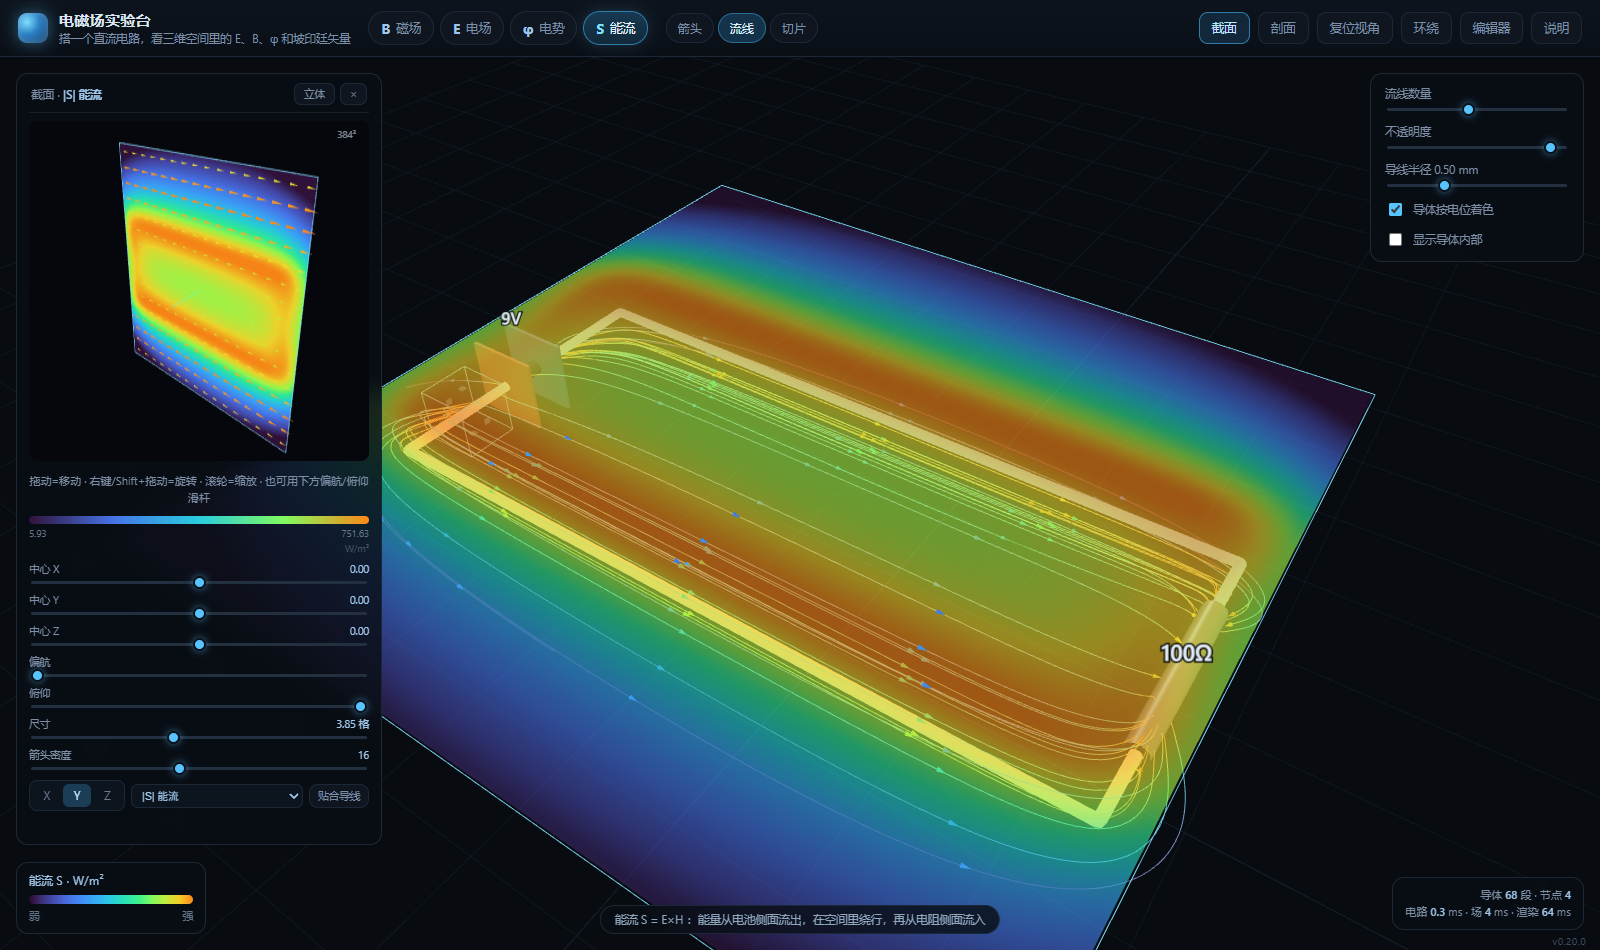
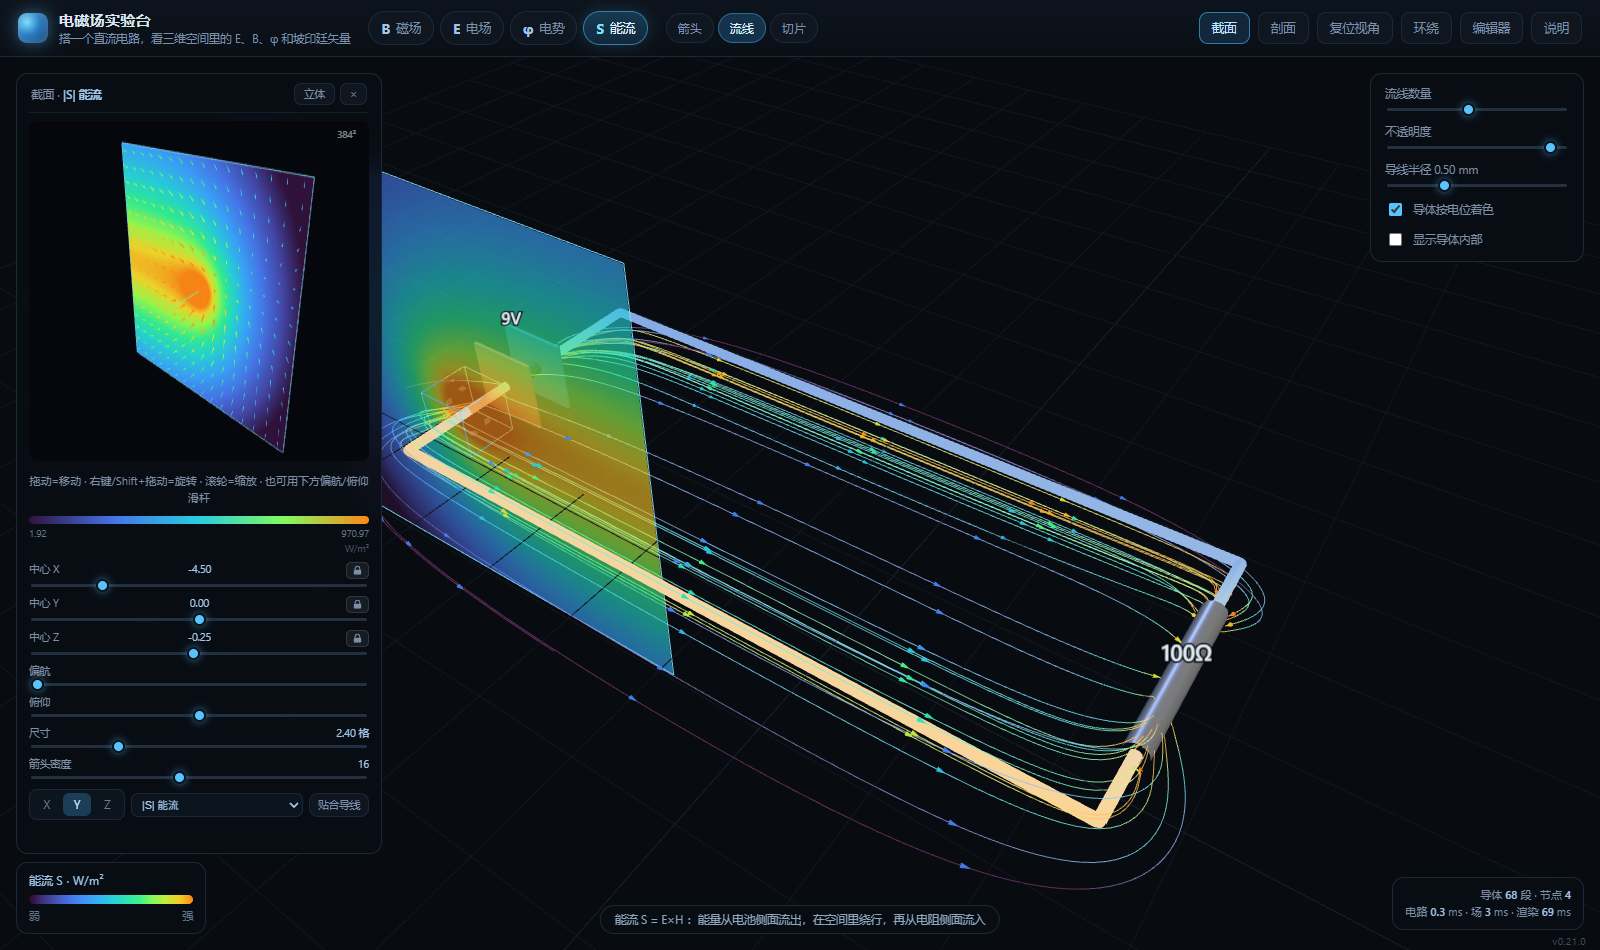
fix: 截取空间尺寸为 0 会卡死；锁不生效（框照旧被拖走）；截面也默认吸附导线并加 XYZ 锁；锁改图标；根目录过程截图进 .gitignore（v0.21.0）
- viz: buildArrows/buildStreams 在任一方向 span≈0 时直接返回——
  体积为 0 会让网格步长算成 ∞，循环无限跑（页面卡死）
- slicepane.setBox: 尺寸统一钳到 >= 0.004（原来只有 setWorldBox 钳）
- app: gizmo onChange 里把框 setBox 回弹到锁定后的体块，否则框照样被拖走，
  看着就是「锁没生效」
- slice: 首次进入 attachToWire()（和截取空间一致）；中心 X/Y/Z 各加锁，
  滑杆和三维拖动都尊重锁定
- index/css: 锁改成小挂锁 SVG 图标（锁定态变绿）
- .gitignore: 根目录的 /*.png 过程截图不再入库（docs/ 里的正式截图仍跟踪）
- test: 新增 4 项，共 59 项
- 版本 0.21.0，文档与截图更新

diff --git a/index.html b/index.html
@@ -91,9 +91,9 @@
       </div>
       <div id="sp-container"></div>
       <div class="sp-ctl">
-        <label class="locked-wrap"><span>中心 X<button type="button" class="lockbtn" id="sp-lock-x" title="锁定后拖动截取框不会改变 X">锁</button></span><input type="range" id="sp-cx" min="-150" max="150" value="0"></label>
-        <label class="locked-wrap"><span>中心 Y<button type="button" class="lockbtn" id="sp-lock-y" title="锁定后拖动截取框不会改变 Y">锁</button></span><input type="range" id="sp-cy" min="-100" max="150" value="7"></label>
-        <label class="locked-wrap"><span>中心 Z<button type="button" class="lockbtn" id="sp-lock-z" title="锁定后拖动截取框不会改变 Z">锁</button></span><input type="range" id="sp-cz" min="-150" max="150" value="0"></label>
+        <label class="locked-wrap"><span>中心 X<button type="button" class="lockbtn" id="sp-lock-x" title="锁定后拖动截取框不会改变 X"><svg viewBox="0 0 16 16" width="11" height="11" aria-hidden="true"><path d="M4.6 7V5.2a3.4 3.4 0 016.8 0V7" fill="none" stroke="currentColor" stroke-width="1.5" stroke-linecap="round"/><rect x="2.6" y="7" width="10.8" height="7" rx="1.8" fill="currentColor"/></svg></button></span><input type="range" id="sp-cx" min="-150" max="150" value="0"></label>
+        <label class="locked-wrap"><span>中心 Y<button type="button" class="lockbtn" id="sp-lock-y" title="锁定后拖动截取框不会改变 Y"><svg viewBox="0 0 16 16" width="11" height="11" aria-hidden="true"><path d="M4.6 7V5.2a3.4 3.4 0 016.8 0V7" fill="none" stroke="currentColor" stroke-width="1.5" stroke-linecap="round"/><rect x="2.6" y="7" width="10.8" height="7" rx="1.8" fill="currentColor"/></svg></button></span><input type="range" id="sp-cy" min="-100" max="150" value="7"></label>
+        <label class="locked-wrap"><span>中心 Z<button type="button" class="lockbtn" id="sp-lock-z" title="锁定后拖动截取框不会改变 Z"><svg viewBox="0 0 16 16" width="11" height="11" aria-hidden="true"><path d="M4.6 7V5.2a3.4 3.4 0 016.8 0V7" fill="none" stroke="currentColor" stroke-width="1.5" stroke-linecap="round"/><rect x="2.6" y="7" width="10.8" height="7" rx="1.8" fill="currentColor"/></svg></button></span><input type="range" id="sp-cz" min="-150" max="150" value="0"></label>
         <label><span>长 X</span><input type="range" id="sp-sx" min="0" max="240" value="48"></label>
         <label><span>高 Y</span><input type="range" id="sp-sy" min="0" max="240" value="30"></label>
         <label><span>宽 Z</span><input type="range" id="sp-sz" min="0" max="240" value="48"></label>
@@ -172,11 +172,11 @@
           <div class="sw-unit" id="sw-unit"></div>
         </div>
         <div class="sw-ctl">
-          <label><span>中心 X <i id="sw-cx-label">0.00</i></span>
+          <label class="locked-wrap"><span>中心 X <i id="sw-cx-label">0.00</i><button type="button" class="lockbtn" id="sw-lock-x" title="锁定后旋转/拖动截面不会改变 X"><svg viewBox="0 0 16 16" width="11" height="11" aria-hidden="true"><path d="M4.6 7V5.2a3.4 3.4 0 016.8 0V7" fill="none" stroke="currentColor" stroke-width="1.5" stroke-linecap="round"/><rect x="2.6" y="7" width="10.8" height="7" rx="1.8" fill="currentColor"/></svg></button></span>
             <input type="range" id="sw-cx" min="-150" max="150" value="0"></label>
-          <label><span>中心 Y <i id="sw-cy-label">0.00</i></span>
+          <label class="locked-wrap"><span>中心 Y <i id="sw-cy-label">0.00</i><button type="button" class="lockbtn" id="sw-lock-y" title="锁定后旋转/拖动截面不会改变 Y"><svg viewBox="0 0 16 16" width="11" height="11" aria-hidden="true"><path d="M4.6 7V5.2a3.4 3.4 0 016.8 0V7" fill="none" stroke="currentColor" stroke-width="1.5" stroke-linecap="round"/><rect x="2.6" y="7" width="10.8" height="7" rx="1.8" fill="currentColor"/></svg></button></span>
             <input type="range" id="sw-cy" min="-100" max="100" value="0"></label>
-          <label><span>中心 Z <i id="sw-cz-label">0.00</i></span>
+          <label class="locked-wrap"><span>中心 Z <i id="sw-cz-label">0.00</i><button type="button" class="lockbtn" id="sw-lock-z" title="锁定后旋转/拖动截面不会改变 Z"><svg viewBox="0 0 16 16" width="11" height="11" aria-hidden="true"><path d="M4.6 7V5.2a3.4 3.4 0 016.8 0V7" fill="none" stroke="currentColor" stroke-width="1.5" stroke-linecap="round"/><rect x="2.6" y="7" width="10.8" height="7" rx="1.8" fill="currentColor"/></svg></button></span>
             <input type="range" id="sw-cz" min="-150" max="150" value="0"></label>
           <label><span>偏航</span><input type="range" id="sw-yaw" min="0" max="360" value="0"></label>
           <label><span>俯仰</span><input type="range" id="sw-pitch" min="-90" max="90" value="90"></label>

diff --git a/js/app.js b/js/app.js
@@ -37,6 +37,7 @@ const state = {
   colorByPot: true,
   interior: false,     // 是否画导体内部的场
   boxLock: { x: false, y: false, z: false },   // 锁定后拖动截取框不会改这一轴
+  sliceLock: { x: false, y: false, z: false }, // 截面中心的锁
   autoRotate: false,
   wireRadius: 0.05,     // 世界单位（1 单位 = 1 cm）
   analysisOn: false,
@@ -70,6 +71,8 @@ slicePane.attachOutline();
 const boxGizmo = new BoxGizmo(scene3d, {
   onChange: (b) => {
     slicePane.setWorldBox(b.min, b.max);
+    // 锁住的轴要「回弹」：不然框照样被拖走，看着就像锁没生效
+    boxGizmo.setBox(slicePane.worldBox);
     syncSpInputs();
   },
 });
@@ -371,6 +374,23 @@ for (const ax of ['x', 'y', 'z']) {
     const rng = $(LOCK_SLIDER[ax]);
     if (rng) rng.disabled = state.boxLock[ax];
     slicePane.setLocks(state.boxLock);
+
+// 截面窗口的中心轴锁
+const SLICE_SLIDER = { x: 'sw-cx', y: 'sw-cy', z: 'sw-cz' };
+for (const ax of ['x', 'y', 'z']) {
+  const btn = $('sw-lock-' + ax);
+  if (!btn) continue;
+  btn.addEventListener('click', (e) => {
+    e.preventDefault();
+    e.stopPropagation();
+    state.sliceLock[ax] = !state.sliceLock[ax];
+    btn.classList.toggle('on', state.sliceLock[ax]);
+    const rng = $(SLICE_SLIDER[ax]);
+    if (rng) rng.disabled = state.sliceLock[ax];
+    slice.setLocks(state.sliceLock);
+  });
+}
+slice.setLocks(state.sliceLock);
   });
 }
 slicePane.setLocks(state.boxLock);
@@ -794,16 +814,49 @@ function runSelfTest() {
       slicePane.setWorldBox([min0[0] + 2, min0[1], min0[2]], [max0[0] + 2, max0[1], max0[2]]);
       ok(Math.abs(slicePane.box.cx - cx0) < 1e-9, '锁定 X 后拖动不改中心 X');
 
+      // 拖动后框要回弹到锁定后的位置（否则看着就像锁没生效）
+      boxGizmo.setBox(slicePane.worldBox);
+      ok(Math.abs(boxGizmo.box.min[0] - slicePane.worldBox.min[0]) < 1e-9,
+        '锁定后 3D 框回弹到不动的那个位置');
+
       state.boxLock.x = false;
       slicePane.setLocks(state.boxLock);
       slicePane.setWorldBox([min0[0] + 2, min0[1], min0[2]], [max0[0] + 2, max0[1], max0[2]]);
       ok(Math.abs(slicePane.box.cx - cx0 - 2) < 0.05, '解锁后拖动恢复修改中心 X');
 
       slicePane.setWorldBox(min0, max0);
+      boxGizmo.setBox(slicePane.worldBox);
+
+      // 尺寸压到 0 也不能把页面卡住
+      slicePane.setBox({ sx: 0, sy: 0, sz: 0 });
+      ok(slicePane.box.sx >= 0.004 && slicePane.box.sy >= 0.004 && slicePane.box.sz >= 0.004,
+        '尺寸钳到最小值（0 不卡死）');
+      slicePane.setWorldBox(min0, max0);
+      boxGizmo.setBox(slicePane.worldBox);
     } catch (err) {
       ok(false, '锁定轴测试抛错', String(err.message).slice(0, 80));
       state.boxLock.x = false;
       slicePane.setLocks(state.boxLock);
+    }
+
+    // 9.585 截面中心锁
+    try {
+      const cx0 = slice.state.cx;
+      state.sliceLock.x = true;
+      slice.setLocks(state.sliceLock);
+      // 模拟三维拖动：绕过事件，直接调内部逻辑做不到，这里验证滑杆路径
+      slice.dom.cx.value = '0';
+      slice.dom.cx.dispatchEvent(new Event('input'));
+      ok(Math.abs(slice.state.cx - cx0) < 1e-9, '截面锁定 X 后滑杆不改中心 X');
+      state.sliceLock.x = false;
+      slice.setLocks(state.sliceLock);
+      slice.dom.cx.dispatchEvent(new Event('input'));
+      ok(Math.abs(slice.state.cx) < 1e-6, '截面解锁后滑杆恢复');
+      slice.state.cx = cx0;
+    } catch (err) {
+      ok(false, '截面锁定测试抛错', String(err.message).slice(0, 80));
+      state.sliceLock.x = false;
+      slice.setLocks(state.sliceLock);
     }
 
     // 9.59 面板里的导体内部箭头

diff --git a/js/slice.js b/js/slice.js
@@ -108,6 +108,7 @@ export class SliceTool {
     this.state = { cx: 0, cy: 0, cz: 0, yaw: 0, pitch: 90, size: 3.4, field: 'S', visible: false };
     this.mode3d = false;     // 窗口是否显示「立体视图」
     this.arrowN = 16;        // 立体视图的箭头网格密度（可调）
+    this.locks = { x: false, y: false, z: false };   // 中心轴锁定
     this._paintTick = 0;
 
     this.group = new THREE.Group();
@@ -145,7 +146,12 @@ export class SliceTool {
     this.bounds = bounds;
     if (conductorR) this.conductorR = conductorR;
     if (!solver || !solver.n) return;
-    if (!this._fitted) this.fitToBounds();
+    if (!this._fitted) {
+      this._fitted = true;
+      // 和截取空间一致：初始就吸附到发热最大的那根导线
+      this.attachToWire();
+      this.state.size = Math.max(2.4, this.state.size);
+    }
     this.update();
   }
 
@@ -486,6 +492,14 @@ export class SliceTool {
     this.update();
   }
 
+  setLocks(l) {
+    this.locks = { x: !!(l && l.x), y: !!(l && l.y), z: !!(l && l.z) };
+    for (const ax of ['x', 'y', 'z']) {
+      const el = this.dom[ax];
+      if (el) el.disabled = this.locks[ax];
+    }
+  }
+
   syncInputs() {
     const s = this.state;
     this.dom.cx.value = String(Math.round(s.cx * 20));
@@ -503,16 +517,19 @@ export class SliceTool {
   _bindDom() {
     const d = this.dom;
     d.cx.addEventListener('input', (e) => {
+      if (this.locks.x) return;
       this.state.cx = +e.target.value / 20;
       d.cxLabel.textContent = this.state.cx.toFixed(2);
       this.update();
     });
     d.cy.addEventListener('input', (e) => {
+      if (this.locks.y) return;
       this.state.cy = +e.target.value / 20;
       d.cyLabel.textContent = this.state.cy.toFixed(2);
       this.update();
     });
     d.cz.addEventListener('input', (e) => {
+      if (this.locks.z) return;
       this.state.cz = +e.target.value / 20;
       d.czLabel.textContent = this.state.cz.toFixed(2);
       this.update();
@@ -866,9 +883,9 @@ export class SliceTool {
           const mx = hitPoint.x - d.point.x;
           const my = hitPoint.y - d.point.y;
           const mz = hitPoint.z - d.point.z;
-          this.state.cx = d.cx + mx;
-          this.state.cy = d.cy + my;
-          this.state.cz = d.cz + mz;
+          if (!this.locks.x) this.state.cx = d.cx + mx;
+          if (!this.locks.y) this.state.cy = d.cy + my;
+          if (!this.locks.z) this.state.cz = d.cz + mz;
         }
       }
       this.update();

diff --git a/js/viz.js b/js/viz.js
@@ -173,6 +173,9 @@ export class FieldViz {
   /* ---- 箭头场 ---- */
   buildArrows(o, box) {
     const { solver, field } = o;
+    // 体块被压成 0 时 span=0 → s=∞ → 网格循环无限跑（会卡死页面）
+    if (!(box.max[0] - box.min[0] > 1e-6) || !(box.max[1] - box.min[1] > 1e-6) ||
+        !(box.max[2] - box.min[2] > 1e-6)) { this.zero = true; return; }
     const fn = makeFieldFn(field, solver);
     const span = [
       box.max[0] - box.min[0],
@@ -363,6 +366,8 @@ export class FieldViz {
   /* ---- 流线 ---- */
   buildStreams(o, box) {
     const { solver, field } = o;
+    if (!(box.max[0] - box.min[0] > 1e-6) || !(box.max[1] - box.min[1] > 1e-6) ||
+        !(box.max[2] - box.min[2] > 1e-6)) { this.zero = true; return; }
     const fn = makeFieldFn(field, solver);
     const density = o.density ?? 0.5;
     const nLines = Math.round((field === 'E' ? 14 : 10) + density * (field === 'E' ? 100 : 68));

diff --git a/js/slicepane.js b/js/slicepane.js
@@ -126,6 +126,10 @@ export class SlicePane {
     if (L.y) delete p.cy;
     if (L.z) delete p.cz;
     Object.assign(this.box, p);
+    // 尺寸不能真的到 0：体块退化会让采样网格无限大
+    this.box.sx = Math.max(0.004, this.box.sx);
+    this.box.sy = Math.max(0.004, this.box.sy);
+    this.box.sz = Math.max(0.004, this.box.sz);
     this.applyBoxChange();
   }
 

diff --git a/js/version.js b/js/version.js
@@ -2,5 +2,5 @@
  * version.js —— 版本号的唯一来源
  * BUILD 由 tools/build_single.py 在打包时写入 git 短哈希。
  */
-export const VERSION = '0.20.0';
+export const VERSION = '0.21.0';
 export const BUILD = null;

diff --git a/css/style.css b/css/style.css
@@ -493,6 +493,7 @@ input[type=range]::-webkit-slider-thumb {
   cursor: pointer;
 }
 .lockbtn:hover { color: var(--fg); }
+.lockbtn svg { display: block; }
 .lockbtn.on {
   color: #0a1016;
   background: #6ee7a8;

diff --git a/README.md b/README.md
@@ -97,6 +97,7 @@ python -m http.server 8765    # 然后开 http://127.0.0.1:8765/
 | 滚轮 | 缩放平面尺寸 |
 
 窗口里也有一行操作提示；如果不想用鼠标，直接拖 `偏航` / `俯仰` 两个滑杆同样能转。
+中心的 X/Y/Z 也有各自的小锁，锁住后旋转/拖动截面都不会改那个坐标。
 
 窗口里的箭头是**立体箭头**：平面内的分量画成普通箭头，法向分量按斜投影画成「进出纸面」的方向，
 并按朝向明暗着色——所以在二维截面图上也能看出矢量在空间里到底指向哪。
@@ -120,6 +121,8 @@ python -m http.server 8765    # 然后开 http://127.0.0.1:8765/
 - **增删元件不会改变视角**：相机只在首次加载、或点「恢复默认电路 / 电源+电阻」时重新对准；
   平时增删元件保持在当前机位。想手动恢复机位就点右上角「复位视角」。
 
+- **截面也默认吸附导线**：打开时截面已经落在发热最大的那根导线上
+
 - **预设**：左边「电源+电阻」按钮会加载一条最简回路——电源在左端、电阻在右端，
   没有电容电感，适合观察「能量从电源出来、绕空间一圈再进电阻」的完整路径
 
@@ -129,8 +132,8 @@ python -m http.server 8765    # 然后开 http://127.0.0.1:8765/
 - **初始位置就是吸附导线后的状态**：打开时体块已经落在发热最大的那根导线上，
   不用再手动去找
 - **吸附导线**：一键把体块对准发热最大的那根导线，尺寸自动收到导线附近
-- **中心 X/Y/Z 可以各自上锁**：点滑杆标题旁边的「锁」，锁住的轴在拖动截取框时不会变，
-  方便只在一个方向上扫
+- **中心 X/Y/Z 可以各自上锁**：点滑杆标题旁边的小锁图标，锁住的轴在拖动截取框时不会变
+  （框会自己「回弹」到锁定位置，不会假装被拖走），方便只在一个方向上扫
 
 主视图里那个青色线框可以用「显示截取框」单独关掉——**关掉只影响线框，不影响下面这块的裁剪**。
 两个视图各有自己的「密度」滑杆（主视图右上角、截取空间底部），互不影响；
